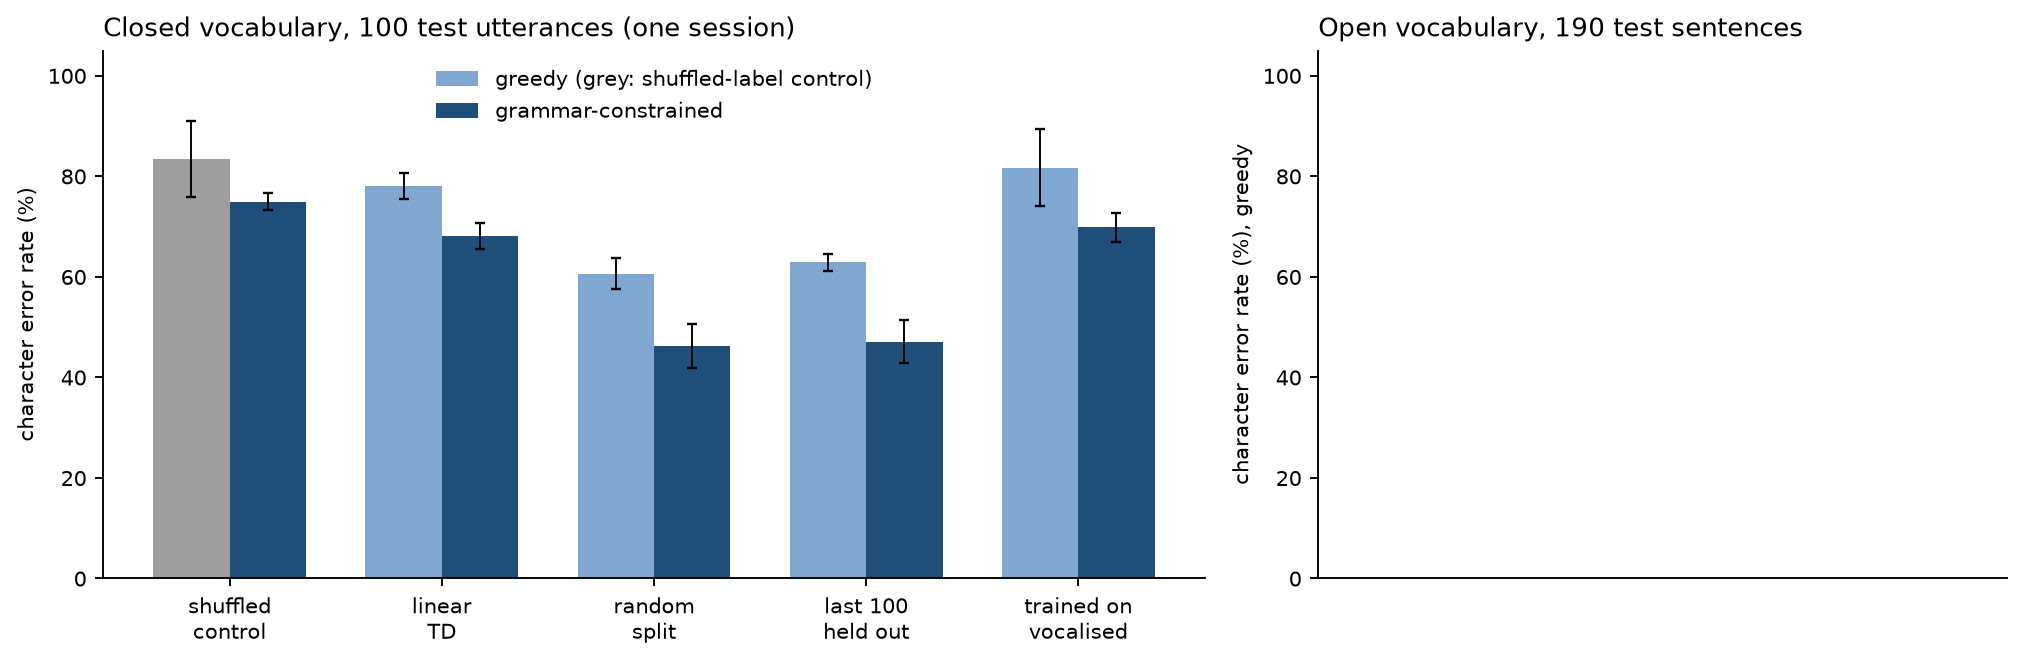
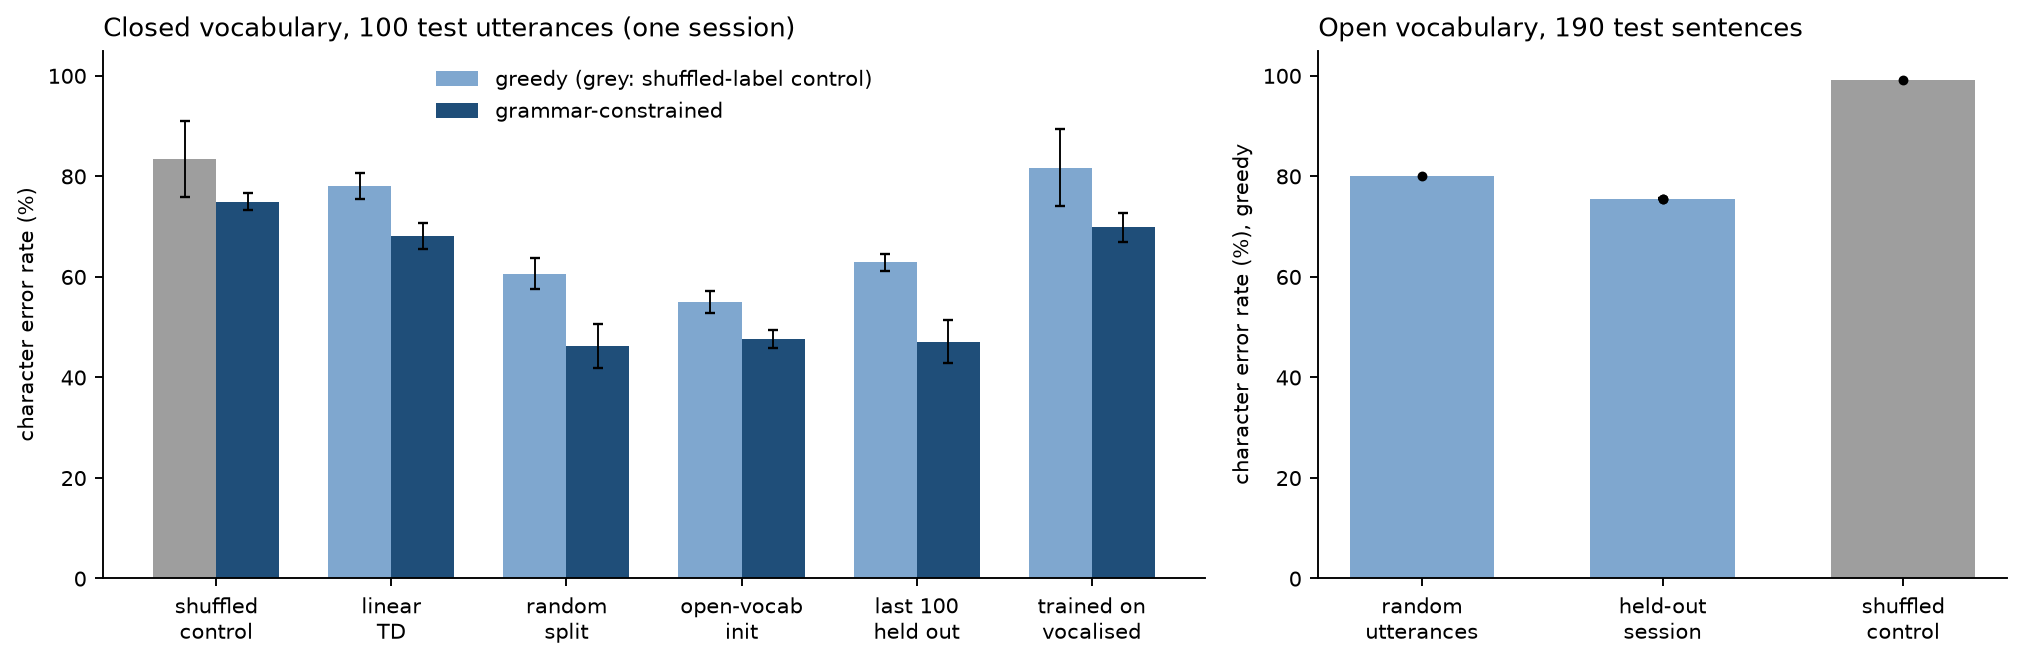
Open-vocabulary held-out-session results, open-vocabulary initialisation, final README

diff --git a/README.md b/README.md
@@ -2,7 +2,7 @@
 
 ![hero](figures/hero.png)
 
-It reads silently mouthed dates and times ("monday june thirtieth", "eight eleven pm") from eight surface EMG electrodes on the face and neck, using the public recordings of one speaker by Gaddy & Klein (2020). On 100 held-out utterances, a small convolution + transformer CTC model with a date/time grammar has a 70% word error rate, against 96% for the same model trained on shuffled labels, and names the weekday in 59% of cases (balanced accuracy, chance 14%). A logistic regression on classic time-domain features does as well on the single-word questions (weekday 56% under cross-validation).
+It reads silently mouthed dates and times ("monday june thirtieth", "eight eleven pm") from eight surface EMG electrodes on the face and neck, using the public recordings of one speaker by Gaddy & Klein (2020). On 100 held-out utterances, a small convolution + transformer CTC model with a date/time grammar has a 70% word error rate, against 96% for the same model trained on shuffled labels, and names the weekday in 59% of cases (balanced accuracy, chance 14%). A logistic regression on classic time-domain features comes close on the single-word questions (weekday 56% under cross-validation).
 
 <!-- TODO(Tommaso): your own words on why -->
 
@@ -48,9 +48,9 @@ All numbers are on held-out test utterances, mean ± sample standard deviation o
 | conv + transformer, shuffled labels (control) | 3 | 83.4 ± 7.5 | 74.9 ± 1.7 | 96.2 ± 4.6 |
 | linear on Jou TD features | 3 | 78.0 ± 2.6 | 68.1 ± 2.7 | 92.2 ± 3.2 |
 | conv + transformer | 5 | 60.6 ± 3.0 | 46.2 ± 4.4 | 70.0 ± 5.8 |
-@@E6ROW@@
+| conv + transformer, initialised from the open-vocabulary model | 3 | 54.9 ± 2.2 | 47.6 ± 1.8 | 73.9 ± 3.4 |
 
-Greedy WER is about 100% for every model: without the grammar almost no word is spelled exactly right. With the grammar, the network recovers part of the prompt; under 2% of test sentences are fully correct.
+Greedy WER is about 100% for every model: without the grammar almost no word is spelled exactly right. With the grammar, the network recovers part of the prompt; under 2% of test sentences are fully correct. A single constant sentence already reaches 70% CER, so greedy CER alone says little; the grammar WER is the number to read. Initialising from the held-out-session open-vocabulary model below (seed 0) lowers greedy CER by about 6 points but does not change grammar WER.
 
 ![results](figures/results.png)
 
@@ -108,7 +108,13 @@ For silent articulation the face electrodes carry most of the information. Remov
 
 Sentences from books, 7 silent sessions with electrodes re-attached each time. Train on 5 sessions, validate on 5-10, test on 5-11 (190 sentences). Greedy decoding, no language model.
 
-@@E5TABLE@@
+| split | seeds | CER % | WER % |
+|---|---|---|---|
+| held-out session 5-11 | 2 | 75.5 ± 0.0 | 98.7 ± 0.3 |
+| random utterances, same sizes | 1 | 80.0 | 98.4 |
+| held-out session, shuffled labels (control) | 1 | 99.1 | 99.7 |
+
+On an unseen session the character error rate is 75%, against 99% for the control, so the EMG carries character-level information across an electrode re-attachment; word-level output is unusable without a language model. Mixing sessions at random did not help here (one seed, 80.0% versus 75.5%), so on this data I see no sign of a session leak inflating random-split scores; with one seed this is weak evidence either way. Seed 1 and the control used a smaller batch budget than seed 0 (32k instead of 64k samples per batch) after an out-of-memory error on the shared machine.
 
 ### Comparison with Gaddy & Klein (2020)
 

diff --git a/results/summary.md b/results/summary.md
@@ -5,11 +5,15 @@
 | closed vocab, random split | conv + transformer, shuffled labels (control) | 3 | 83.4 ± 7.5 | 103.5 ± 3.1 | 74.9 ± 1.7 | 96.2 ± 4.6 | 0.3 ± 0.6 |
 | closed vocab, random split | linear on TD features (Jou et al.) | 3 | 78.0 ± 2.6 | 110.0 ± 7.2 | 68.1 ± 2.7 | 92.2 ± 3.2 | 0.3 ± 0.6 |
 | closed vocab, random split | conv + transformer | 5 | 60.6 ± 3.0 | 99.5 ± 0.8 | 46.2 ± 4.4 | 70.0 ± 5.8 | 1.2 ± 1.1 |
+| closed vocab, random split | conv + transformer, initialised from open vocab | 3 | 54.9 ± 2.2 | 97.6 ± 0.4 | 47.6 ± 1.8 | 73.9 ± 3.4 | 1.3 ± 1.2 |
 | closed vocab, last 100 utterances held out | conv + transformer | 3 | 62.9 ± 1.6 | 100.5 ± 1.3 | 47.1 ± 4.2 | 72.7 ± 6.6 | 0.7 ± 1.2 |
 | train vocalised, test silent | conv + transformer | 3 | 81.7 ± 7.7 | 100.3 ± 0.6 | 69.8 ± 2.9 | 90.0 ± 2.2 | 0.3 ± 0.6 |
 | closed vocab, without throat electrode | conv + transformer | 3 | 55.1 ± 8.4 | 94.8 ± 4.5 | 44.6 ± 3.7 | 68.7 ± 5.3 | 0.3 ± 0.6 |
 | closed vocab, 6 face electrodes | conv + transformer | 3 | 55.3 ± 2.5 | 97.7 ± 1.5 | 47.0 ± 2.8 | 72.5 ± 3.4 | 1.3 ± 1.2 |
 | closed vocab, 2 neck electrodes | conv + transformer | 3 | 71.4 ± 5.2 | 100.9 ± 2.0 | 60.2 ± 1.7 | 84.4 ± 2.5 | 0.0 |
+| open vocab, random utterances | conv + transformer | 1 | 80.0 | 98.4 | n/a | n/a | n/a |
+| open vocab, held-out session | conv + transformer | 2 | 75.5 ± 0.0 | 98.7 ± 0.3 | n/a | n/a | n/a |
+| open vocab, held-out session | conv + transformer, shuffled labels (control) | 1 | 99.1 | 99.7 | n/a | n/a | n/a |
 
 ### Slot classification, balanced accuracy %
 
@@ -22,7 +26,7 @@
 
 Same 100 test utterances as the CTC models (E1 split):
 
-| task | logreg | GBM (5 seeds) | conv + transformer, greedy | conv + transformer, grammar |
+| task | logreg | GBM | conv + transformer, greedy | conv + transformer, grammar |
 |---|---|---|---|---|
 | template | 99.0 | 95.0 | 33.8 ± 0.9 | 91.7 ± 5.1 |
 | ampm | 85.6 | 79.3 | 12.2 ± 15.0 | 68.8 ± 6.7 |
